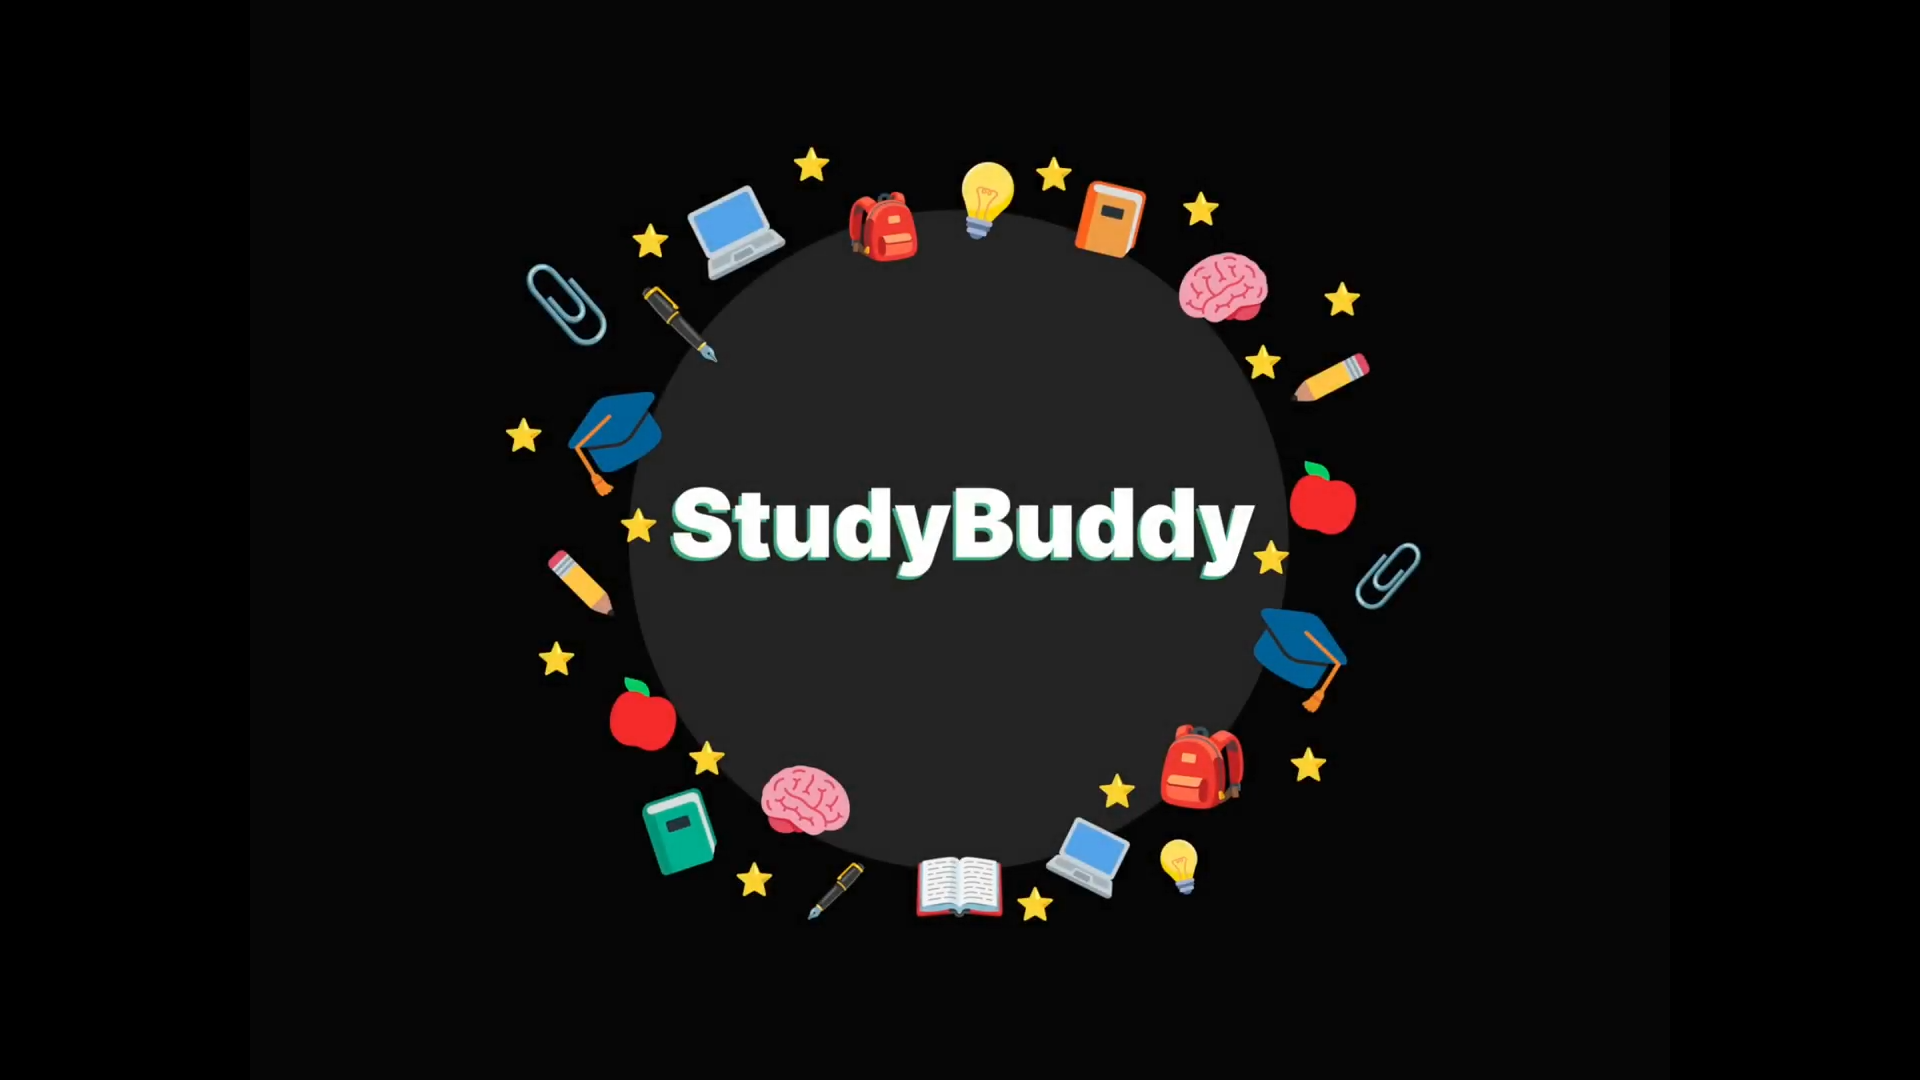
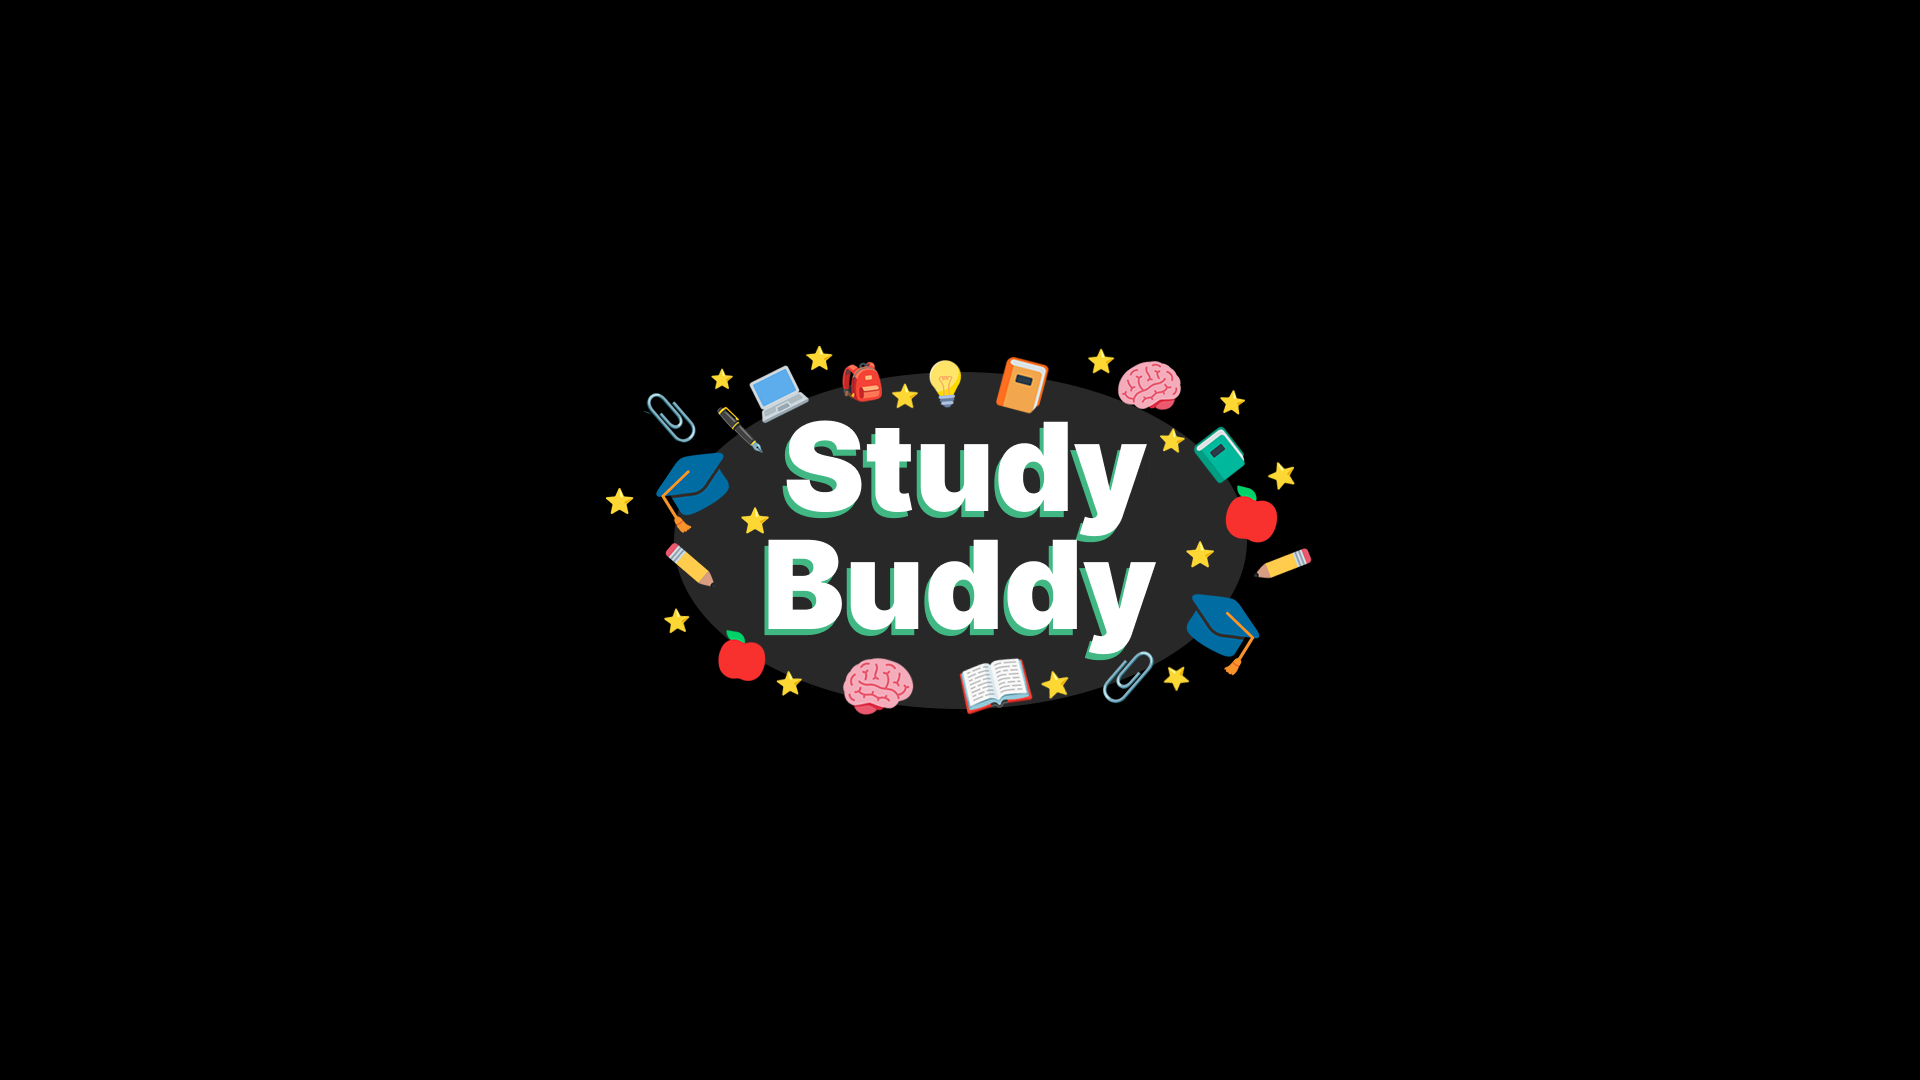
testing title pic

Changed region(s): [[0.25, 0.1222, 0.75, 0.8556], [0.4062, 0.825, 0.4375, 0.8556]]

diff --git a/project.html b/project.html
@@ -15,24 +15,38 @@
     <title>Carlos Sujanto</title>
   </head>
   <body class="poppins-light">
-    <div id="project-container">
-      <h1 id="project-title"></h1>
-      <p id="project-description"></p>
-      <img id="project-image" src="" alt="Project Image" />
+    <!-- <div id="homeID" class="landing-page">
+      <div id="changeBG" class="bg-image">
+        <div class="overlay"></div>
+        <div class="text">
+          <p id="project-subtitle" style="font-size: 25px"></p>
+          <p id="project-title" style="font-size: 75px"></p>
+        </div>
+      </div>
+    </div> -->
+
+    <div class="project-main">
+      <div class="project-image"></div>
     </div>
+
     <script>
       const projects = {
         0: {
           title: "StudyBuddy",
+          class: "SENG513",
+          location: "Calgary, AB",
           description: "Description of Project 1.",
-          image: "path/to/project1-image.jpg",
+          imageTitle: "asset/studdyBuddyPic.png",
+          image: "asset/studdyBuddyPic.png",
         },
         1: {
           title: "Project 2 Title",
           description: "Description of Project 2.",
+          imageTitle: "asset/studdyBuddyPic.png",
           image: "path/to/project2-image.jpg",
         },
       };
+
       document.addEventListener("DOMContentLoaded", function () {
         function getProjectID(projectID) {
           const urlParams = new URLSearchParams(window.location.search);
@@ -43,10 +57,14 @@
           const project = projects[projectID];
           if (project) {
             document.title = `Carlos Sujanto | ${project.title}`;
-            document.getElementById("project-title").innerText = project.title;
-            document.getElementById("project-description").innerText =
-              project.description;
-            document.getElementById("project-image").src = project.image;
+            document.getElementById("changeBG").style.backgroundImage =
+              "url(" + `${project.image}` + ")";
+            document.getElementById("project-subtitle").innerHTML =
+              "<strong>" + project.class + "</strong> | " + project.location;
+            document.getElementById("project-title").innerHTML =
+              "<strong>" + project.title + "</strong>";
+            // document.getElementById("project-description").innerText = project.description;
+            document.getElementById("project-image").src = project.imageTitle;
           }
         }
 

diff --git a/index.css b/index.css
@@ -170,6 +170,20 @@ nav a:hover{
   column-gap:50px;
 }
 
+.project-image{
+  width:100vw;
+  height: 40vh;
+  background-image: url("asset/studdyBuddyPic.png");
+    background-size: cover;
+  background-repeat: no-repeat;
+  background-position: center center;
+
+}
+
+.project-image img{
+  overflow: hidden;
+}
+
 .item{
   background-color: var(--slate-blue);
   border-radius: 20px;
